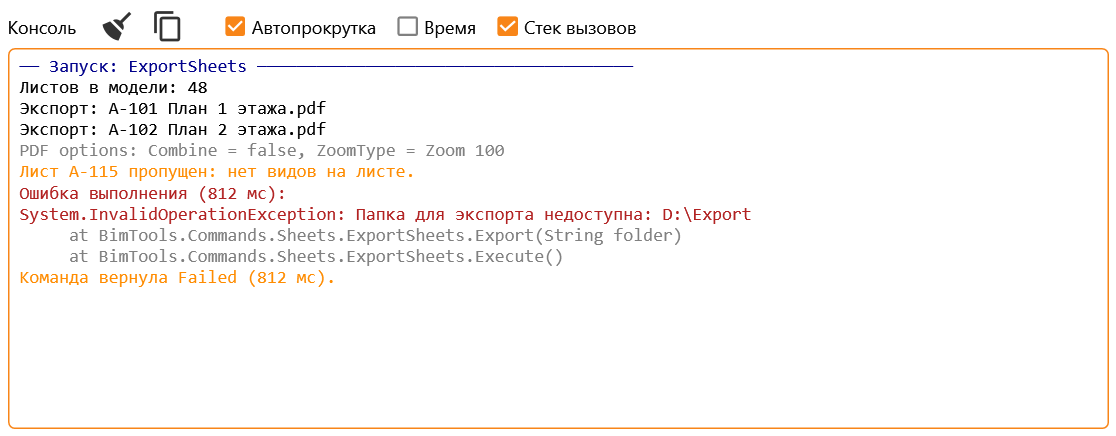
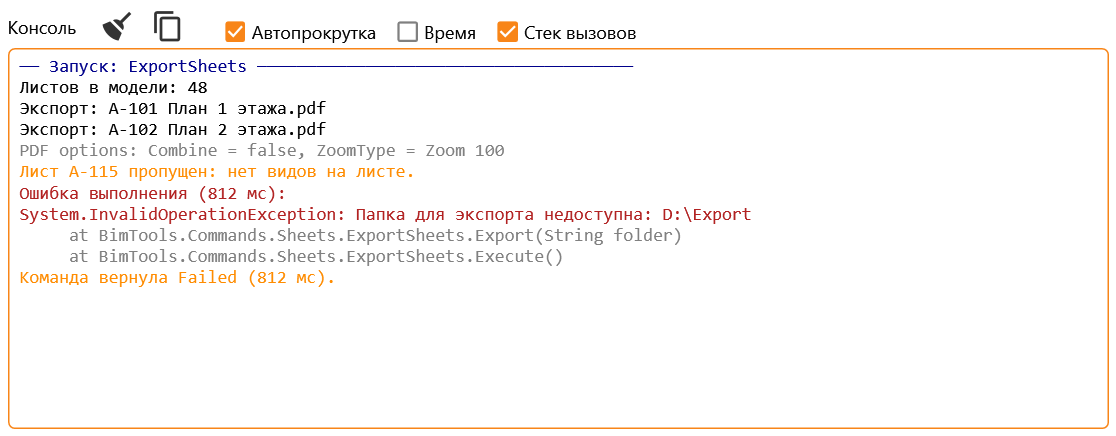
Toolbars: checkboxes line up with the bottom of the buttons

Changed region(s): [[0.1828, 0.0298, 0.5789, 0.0894]]

diff --git a/source/UI/DllRunner/AssemblyRunnerWindow.xaml b/source/UI/DllRunner/AssemblyRunnerWindow.xaml
@@ -157,7 +157,7 @@
                 <materialDesign:PackIcon Kind="DeleteOutline" Width="25" Height="25" Foreground="{StaticResource IconBrush}"/>
             </Button>
 
-            <CheckBox VerticalAlignment="Center" Padding="2 0" Content="Чистить консоль" Margin="20 0 0 0" IsChecked="{Binding IsClearOnRun}"
+            <CheckBox VerticalAlignment="Bottom" Padding="2 0" Content="Чистить консоль" Margin="20 0 0 0" IsChecked="{Binding IsClearOnRun}"
                       ToolTip="Очищать консоль перед каждым запуском"/>
         </StackPanel>
 
@@ -233,7 +233,7 @@
                 <materialDesign:PackIcon Kind="FolderSearchOutline" Width="25" Height="25" Foreground="{StaticResource IconBrush}"/>
             </Button>
 
-            <CheckBox VerticalAlignment="Center" Padding="2 0" Content="Только конфликты" Margin="20 0 0 0" IsChecked="{Binding Dependencies.OnlyProblems}"
+            <CheckBox VerticalAlignment="Bottom" Padding="2 0" Content="Только конфликты" Margin="20 0 0 0" IsChecked="{Binding Dependencies.OnlyProblems}"
                       ToolTip="Снимите, чтобы видеть и подписанные DLL, которые загрузятся рядом, и одинаковые у нескольких надстроек"/>
         </StackPanel>
 
@@ -257,7 +257,7 @@
                 <materialDesign:PackIcon Kind="FolderSearchOutline" Width="25" Height="25" Foreground="{StaticResource IconBrush}"/>
             </Button>
 
-            <CheckBox VerticalAlignment="Center" Padding="2 0" Content="Скрыть системные" Margin="20 0 0 0" IsChecked="{Binding LoadedAssemblies.HideSystem}"
+            <CheckBox VerticalAlignment="Bottom" Padding="2 0" Content="Скрыть системные" Margin="20 0 0 0" IsChecked="{Binding LoadedAssemblies.HideSystem}"
                       ToolTip="Скрыть сборки .NET, GAC, Revit и созданные в памяти: останутся надстройки и их DLL"/>
         </StackPanel>
 

diff --git a/source/UI/Console/ConsoleView.xaml b/source/UI/Console/ConsoleView.xaml
@@ -22,9 +22,9 @@
                 <materialDesign:PackIcon Kind="ContentCopy" Width="22" Height="22" Foreground="{DynamicResource IconBrush}"/>
             </Button>
 
-            <CheckBox Content="Автопрокрутка" VerticalAlignment="Center" Margin="15 0 0 0" Padding="2 0" IsChecked="{Binding IsAutoScroll}"/>
-            <CheckBox Content="Время" VerticalAlignment="Center" Margin="10 0" Padding="2 0" IsChecked="{Binding IsTimestamps}"/>
-            <CheckBox Content="Стек вызовов" VerticalAlignment="Center" Padding="2 0" IsChecked="{Binding IsShowDebug}"/>
+            <CheckBox Content="Автопрокрутка" VerticalAlignment="Bottom" Margin="15 0 0 0" Padding="2 0" IsChecked="{Binding IsAutoScroll}"/>
+            <CheckBox Content="Время" VerticalAlignment="Bottom" Margin="10 0" Padding="2 0" IsChecked="{Binding IsTimestamps}"/>
+            <CheckBox Content="Стек вызовов" VerticalAlignment="Bottom" Padding="2 0" IsChecked="{Binding IsShowDebug}"/>
         </StackPanel>
 
         <RichTextBox x:Name="Output" IsReadOnly="True" IsDocumentEnabled="True" FontFamily="Consolas" Margin="0 2 0 0"

diff --git a/source/UI/ScriptEditor/ScriptEditorWindow.xaml b/source/UI/ScriptEditor/ScriptEditorWindow.xaml
@@ -74,10 +74,10 @@
                 </materialDesign:PopupBox>
             </Border>
 
-            <CheckBox VerticalAlignment="Center" Padding="2 0" Content="Автотранзакция" IsChecked="{Binding IsAutoTransaction}"
+            <CheckBox VerticalAlignment="Bottom" Padding="2 0" Content="Автотранзакция" IsChecked="{Binding IsAutoTransaction}"
                       ToolTip="Обернуть выполнение в транзакцию. Выключите, если скрипт открывает транзакции сам."/>
 
-            <CheckBox VerticalAlignment="Center" Padding="2 0" Content="Чистить консоль" Margin="8 0" IsChecked="{Binding IsClearOnRun}"
+            <CheckBox VerticalAlignment="Bottom" Padding="2 0" Content="Чистить консоль" Margin="8 0" IsChecked="{Binding IsClearOnRun}"
                       ToolTip="Очищать консоль перед каждым запуском"/>
         </StackPanel>
 
